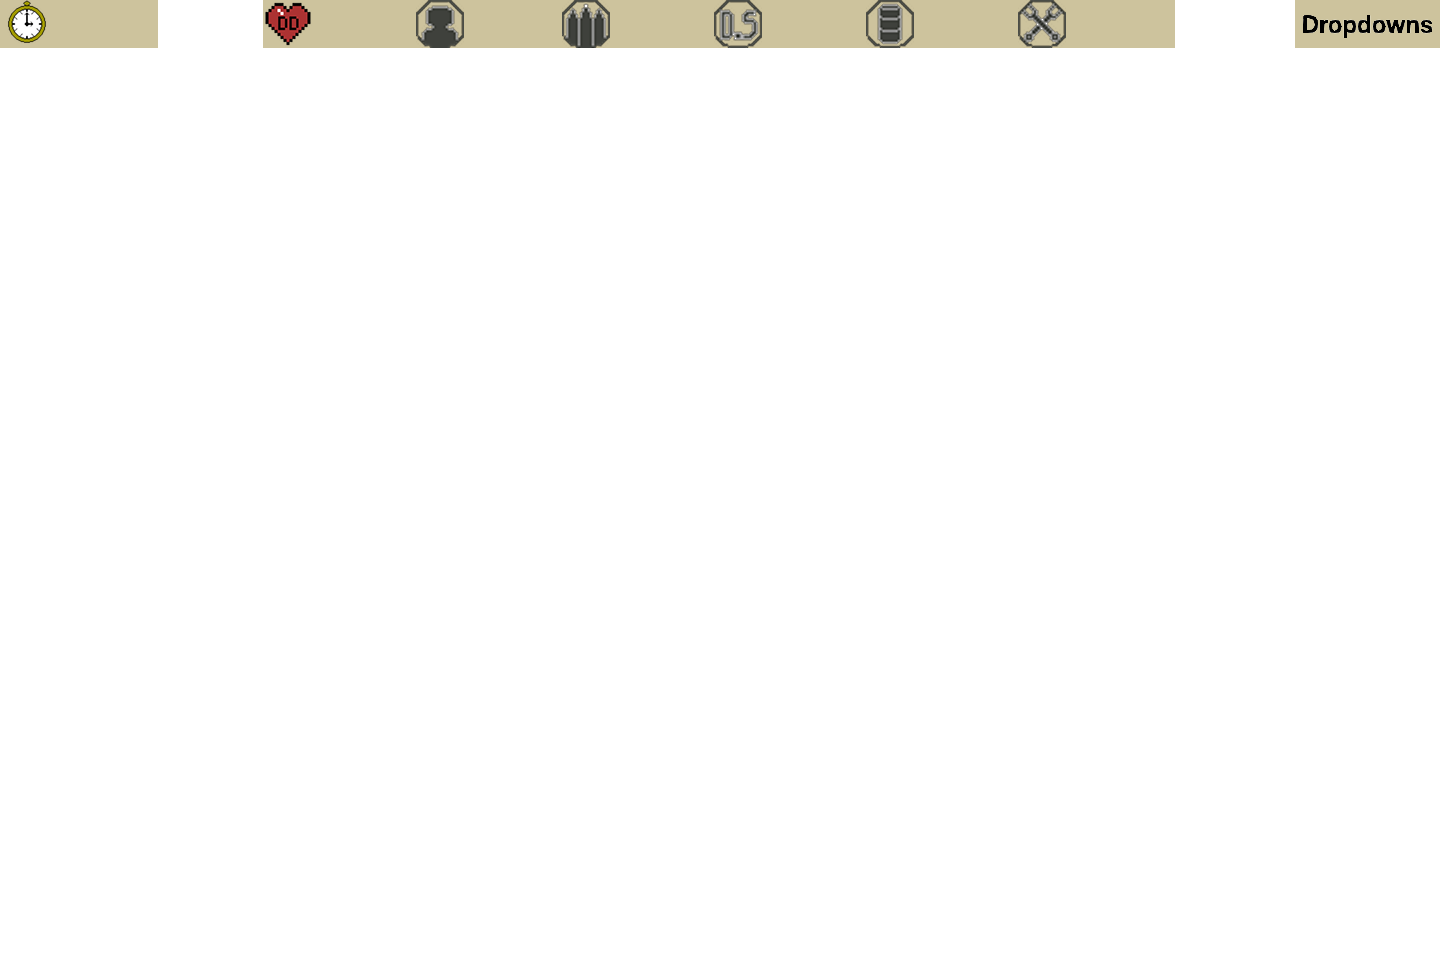
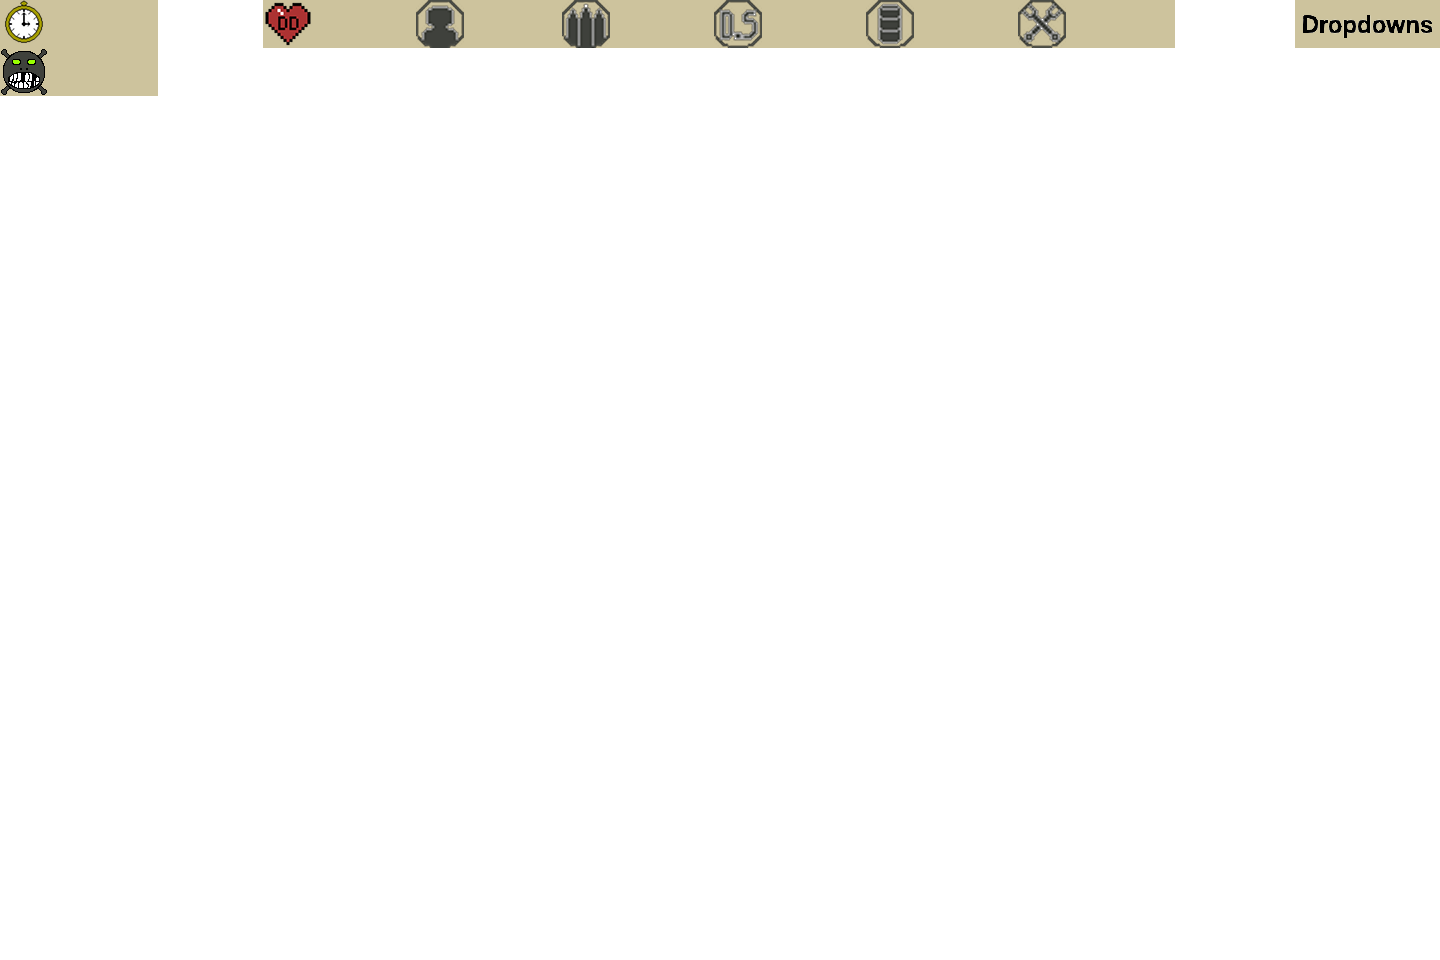
added swarm warning for the next swarm timer

Changed region(s): [[0.0, 0.0, 0.125, 0.125]]

diff --git a/Depot delta/gameFiles/UI/levelUI.cpp b/Depot delta/gameFiles/UI/levelUI.cpp
@@ -20,8 +20,14 @@ void levelUI::renderResourceHover() {
 	SDL_RenderTexture(renderer, resourceHoverTexture, NULL, &size);
 }
 
-void levelUI::renderTime() {
+void levelUI::renderTime(bool swarm) {
 	vector<int> cTime = time->getDayTime();
+	if (swarm && time->getSwarmTimeSize() >= 1) {
+		cTime = time->getNextSwarmTime();
+	}
+	else if(swarm) {
+		return;
+	}
 	int iMin = cTime[minute];
 	string sMin = to_string(iMin);
 	if (iMin < 10) {
@@ -35,7 +41,7 @@ void levelUI::renderTime() {
 	string countText = "Day: " + to_string(cTime[day]) + ". " + sHour + ":" + sMin;
 	SDL_Surface* surface = TTF_RenderText_Solid(font, countText.c_str(), countText.length(), { 0,0,0,255 });
 	SDL_Texture* texture = SDL_CreateTextureFromSurface(renderer, surface);
-	SDL_FRect timeSize{ 62.0f * camera.xScale, 9.0f * camera.yScale, 96.0f * camera.xScale, 30.0f * camera.yScale };
+	SDL_FRect timeSize{ 62.0f * camera.xScale, 9.0f * camera.yScale + 48.0f * swarm * camera.yScale, 96.0f * camera.xScale, 30.0f * camera.yScale };
 	SDL_RenderTexture(renderer, texture, NULL, &timeSize);
 
 	if (time->getSpawnSwarm()) {
@@ -56,6 +62,8 @@ void levelUI::render() {
 		SDL_FRect size{ 0, 0, camera.dimen.w, camera.dimen.h };
 		SDL_RenderTexture(renderer, texture, NULL, &size);
 		minimap->render(renderer);
+		renderTime(false); // render time
+		renderTime(true); // render next swarm time
 	}
 }
 

diff --git a/Depot delta/gameFiles/UI/levelUI.h b/Depot delta/gameFiles/UI/levelUI.h
@@ -25,7 +25,7 @@ public:
 
 	void renderResourceHover();
 
-	void renderTime();
+	void renderTime(bool swarm);
 
 	void render();
 

diff --git a/Depot delta/gameFiles/levelHandling/levelManager.cpp b/Depot delta/gameFiles/levelHandling/levelManager.cpp
@@ -130,7 +130,6 @@ void LevelManager::unpausedRender()
         hoveredUnit->renderHover(renderer);
     }
     UI->render();
-    UI->renderTime();
     depot->renderResources(renderer);
 
     if (frameCount % 30 == 0) {
@@ -164,7 +163,6 @@ void LevelManager::pausedRender()
         }
     }
     UI->render();
-    UI->renderTime();
     depot->renderResources(renderer);
 }
 

diff --git a/Depot delta/gameFiles/misc/dayCycle.h b/Depot delta/gameFiles/misc/dayCycle.h
@@ -70,6 +70,8 @@ public:
 	//getters
 	vector<int> getDayTime() { return dayTime; }
 	bool getSpawnSwarm() { return spawnSwarm; }
+	int getSwarmTimeSize() { return swarmTimes.size(); }
+	vector<int> getNextSwarmTime() { return swarmTimes[0]; }
 	int getSpawnQuantity(int type) { return swarmQuantity[type][0]; }
 	vector<int> getAllSpawnQuantity() { return swarmQuantity[0]; }
 	int getSpawnDirection() { return swarmDirection[0]; }